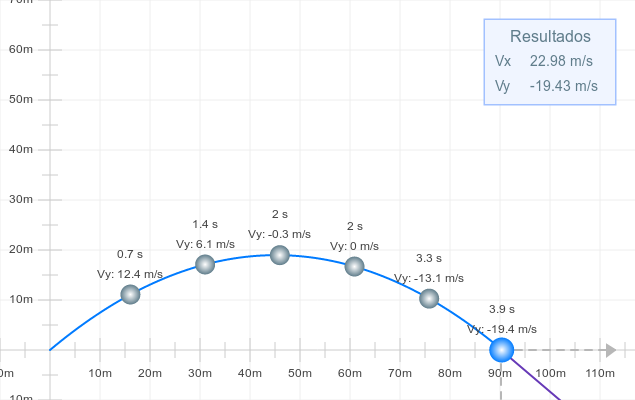
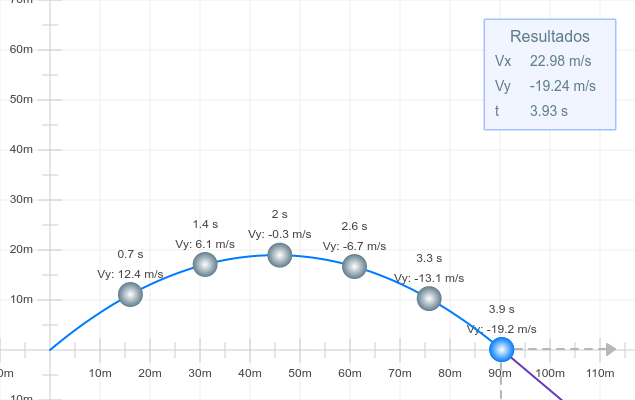
Se agrego la posibilidad de adelantar y retrasar la simulacion. Se cambio todo el draw.

diff --git a/fisica/tiro_parabolico/main.js b/fisica/tiro_parabolico/main.js
@@ -1,14 +1,13 @@
+// Constants
+var TIME_STEP = 0.05;       // Step of time every iteration of the draw function.
+var STEPS = 6;              // Amount of balls.
+
 // Variables
-var t = 0;                // Current time in seconds.
-var t_final = 0;          // Final time to reach y = 0.
-var t_max = 0;            // Time where the ball reaches the highest point.
-var started = false;      // Has the start button been pressed?
-var vx0 = 0;              // Initial x velocity.
-var vy0 = 0;              // Initial y velocity.
-var y0 = 0;               // Initial height.
-var steps = 6;            // Amount of balls.
-var show_balls = false;
-var balls_i = 0;          // Amount of balls being currently displayed.
+var vx0 = 0;                // Initial x velocity.
+var points = [];            // 2d array with the values of the simulation.
+var current = 0;            // Current step of the simulation.
+var started = false;        // Determines if the simulations is running.
+var showRefPoints = false;
 
 // p$ Objeccts
 var w;
@@ -43,12 +42,12 @@ function setup() {
 
   // Add steps amount of balls.
   // Creates an object with obj, time and vy property.
-  for (var i = 0; i < steps; i++) {
-    var b = new p$.Ball(2.5, { color: p$.COLORS.GRAY, display: false, isDraggable: false });
-    b.setZ(2);
+  for (var i = 0; i < STEPS; i++) {
+    var b = new p$.Ball(2.5, { color: p$.COLORS.GRAY, display: true, isDraggable: false });
+    b.setZ(3);
     balls.push({
       obj: b,
-      time: 0,
+      t: 0,
       vy: 0
     });
     w.add(b);
@@ -59,11 +58,14 @@ function setup() {
   labels.vx.setPosition(0, 25);
   labels.vy = box.addLabel(110, 14, { name: "Vy", units: "m/s", labelWidth: 35 });
   labels.vy.setPosition(0, 50);
+  labels.t = box.addLabel(110, 14, { name: "t", units: "s", labelWidth: 35 });
+  labels.t.setPosition(0, 75);
   box.calculateDimensions();
 
   // Configure the z index of all objects.
-  vel.setZ(1);
-  ball.setZ(2);
+  path.setZ(1);
+  vel.setZ(2);
+  ball.setZ(4);
   box.setZ(10);
 
   // Add objects to world.
@@ -75,21 +77,34 @@ function setup() {
  */
 function setupControls() {
   
-  // Configure sliders.
+  // // Configure sliders.
   controls.v0 = new p$.Slider({ id: "v0", start: 30, min: 20, max: 40, decPlaces: 1, units: "m/s", callback: reset, color: p$.COLORS.RED });
   controls.y0 = new p$.Slider({ id: "y0", start: 0, min: 0, max: 30, decPlaces: 0, units: "m", callback: reset, color: p$.COLORS.BLUE });
   controls.angle = new p$.Slider({ id: "angle", start: 40, min: 0, max: 90, decPlaces: 0, units: "°", callback: reset, color: p$.COLORS.GREEN });
   
-  // Start button.
+  // Buttons.
   controls.start = new p$.dom.Button("start", function() {
-    reset();
+    // Reset the simulation only if the simulation has ended.
+    if (current >= points.length - 1) reset();
     started = true;
+  });
+  controls.pause = new p$.dom.Button("pause", function() {
+    started = false;
+  });
+  controls.forward = new p$.dom.Button("forward", function() {
+    started = false;
+    current += 1;
+    if (current >= points.length) current = points.length - 1;
+  });
+  controls.back = new p$.dom.Button("back", function() {
+    started = false;
+    current -= 1;
+    if (current < 0) current = 0;
   });
 
   // Show points option.
-  controls.show_points = new p$.dom.Option("showPoints", function(s) {
-    displayBalls(s);
-    show_balls = s;
+  controls.showRefPoints = new p$.dom.Option("showPoints", function(s) {
+    showRefPoints = s;
   });
 
 }
@@ -99,63 +114,65 @@ function setupControls() {
  * Called when any slider changes values.
  */
 function reset() {
-  // Hide all balls.
-  balls_i = 0;
-  for (var i = 0; i < steps; i++) {
-    balls[i].obj.display = false;
-    balls[i].obj.setPosition(0, 0);
-    balls[i].obj.r = 0;
-  }
 
-  // Reset time and simulation.
-  t = 0;
+  // Restart simulation.
+  current = 0;
   started = false;
 
-  // Reset graph.
-  path.clear();
-  
-  // Reset main ball and vector.
-  vel.setMag(controls.v0.value, controls.angle.value);
-  vel.setPosition(0, controls.y0.value);
-  ball.setPosition(0, controls.y0.value);
-
   // Save initial values.
+  vel.setMag(controls.v0.value, controls.angle.value);
+  var vy0 = vel.y;
+  var y0 = controls.y0.value;
   vx0 = vel.x;
-  vy0 = vel.y;
-  y0 = ball.position.y;
-  
-  // Reset labels.
-  labels.vy.set(vy0);
-  labels.vx.set(vx0);
   
   // Using the quadratic formula get the positive solution to the time
   // the ball takes to reach ground again.
   var t1 = (-vy0 + Math.sqrt(vy0 * vy0 - 4 * (-9.81/2) * y0)) / (-9.81);
   var t2 = (-vy0 - Math.sqrt(vy0 * vy0 - 4 * (-9.81/2) * y0)) / (-9.81);
-  t_final = t1 > 0 ? t1 : t2;
+  var tFinal = t1 > 0 ? t1 : t2;
 
-  // Calculate at which time the ball is at its highest.
-  t_max = vy0 / 9.81;
-}
-
-/**
- * Toggle the visibility of the balls.
- */
-function displayBalls(state) {
-  for (var i = 0; i < steps; i++) {
-    balls[i].obj.display = state;
+  // Simulate the throw and store all points.
+  points = [];
+  for (var t = 0; t <= tFinal; t += TIME_STEP) {
+    points.push([
+      t, 
+      vx0 * t, 
+      y0 + vy0 * t - 0.5 * 9.8 * t * t, 
+      vy0 - 9.8 * t 
+    ]);
   }
+  points.push([
+    tFinal, 
+    vx0 * tFinal, 
+    y0 + vy0 * tFinal - 0.5 * 9.8 * tFinal * tFinal, 
+    vy0 - 9.8 * tFinal 
+  ]);
+
+  // Position the reference balls. They must be equally spaced.
+  var tStep = tFinal / STEPS;
+  var placed = 0;
+  for (var i = 0; i < points.length; i++) {
+    if (points[i][0] >= tStep * (placed + 1)) {
+      balls[placed].obj.display = false;
+      balls[placed].obj.setPosition(points[i][1], points[i][2]);
+      balls[placed].t = points[i][0];
+      balls[placed].vy = points[i][3];
+      placed += 1;
+    }
+    
+  }
+
 }
 
 /**
  * Draw function for Shape Object: ball_labels.
  */
 function drawBallLabels() {
-  for (var i = 0; i < steps; i++) {
+  for (var i = 0; i < balls.length; i++) {
     var b = balls[i];
-    if (b.obj.display && b.obj.position.x !== 0) {
+    if (b.obj.display) {
       ball_labels.text("Vy: " + p$.utils.round(b.vy, 1) + " m/s", b.obj.position.x, b.obj.position.y + 4);
-      ball_labels.text(p$.utils.round(b.time, 1) + " s", b.obj.position.x, b.obj.position.y + 8);
+      ball_labels.text(p$.utils.round(b.t, 1) + " s", b.obj.position.x, b.obj.position.y + 8);
     }
   }
 }
@@ -164,32 +181,48 @@ function drawBallLabels() {
  * Function gets called 60x per second.
  */
 function draw() {
+
+  // Get the current time, position, and velocity values.
+  var t = points[current][0];
+  var x = points[current][1], y = points[current][2];
+  var vy = points[current][3];
+
+  // Draw plot til the current point.
+  path.clear();
+  for (var i = 0; i < current; i++) {
+    path.addPoint(points[i][1], points[i][2]);
+  }
+
+  // Draw reference balls til the current point.
+  for (var i = 0; i < balls.length; i++) {
+    balls[i].obj.display = t >= balls[i].t && showRefPoints;
+  }
+
+  // Update the position of the ball and velocity vector.
+  ball.setPosition(x, y);
+  vel.setPosition(x, y);
+  vel.set(vx0, vy);
+
+  // Update labels.
+  labels.vx.set(vx0)
+  labels.vy.set(vy);
+  labels.t.set(t);
+  
+  // Increase current frame only if the simulation has not started.
   if (started) {
-    var vy = vy0 - 9.8 * t;
-    var x = vx0 * t;
-    var y = y0 + vy0 * t - 0.5 * 9.8 * t * t;
-    vel.set(vx0, vy);
-    ball.setPosition(x, y);
-    vel.setPosition(ball.position.x, ball.position.y);
-    labels.vy.set(vy);
-    if (t > (balls_i + 1) * t_final / steps && balls_i < steps && ball.position.x !== 0) {
-      balls[balls_i].time = balls_i === 3 ? t_max : t;
-      balls[balls_i].vy = balls_i === 3 ? 0 : vy;
-      balls[balls_i].obj.display = show_balls;
-      balls[balls_i].obj.r = 2;
-      balls[balls_i].obj.setPosition(ball.position.x, ball.position.y);
-      balls_i++;
-    }
-    if (t < t_final) {
-      t += 0.05;
+    if (current < points.length - 1) {
+      current += 1;
     } else {
       started = false;
-      ball.setPosition(vx0 * t_final, y0 + vy0 * t_final - 0.5 * 9.81 * t_final * t_final);
-      vel.setPosition(ball.position.x, ball.position.y);
-      balls[balls.length - 1].obj.setPosition(ball.position.x, ball.position.y);
     }
-    path.addPoint(ball.position.x, ball.position.y);
   }
+
+  // Update the control buttons, depending on the current frame.
+  controls.back.enabled(current > 0);
+  controls.forward.enabled(current < points.length - 1);
+  controls.start.enabled(!started);
+  controls.pause.enabled(started);
+
 }
 
 /**

diff --git a/fisica/tiro_parabolico/index.php b/fisica/tiro_parabolico/index.php
@@ -84,10 +84,28 @@
                             </div>
                         </div> <!-- end .row- -->
                         <div class="row button-row">
-                            <div class="col">
+                            <div class="col-3">
+                                <button type="button" id="back" class="btn btn-sm btn-outline-secondary btn-block">
+                                    <i data-feather="skip-back"></i>
+                                    <!-- <span>Atras</span> -->
+                                </button>
+                            </div>
+                            <div class="col-3">
                                 <button type="button" id="start" class="btn btn-sm btn-success btn-block">
                                     <i data-feather="play"></i>
-                                    <span>Simular</span>
+                                    <!-- <span>Simular</span> -->
+                                </button>
+                            </div>
+                            <div class="col-3">
+                                <button type="button" id="pause" class="btn btn-sm btn-primary btn-block">
+                                    <i data-feather="pause"></i>
+                                    <!-- <span>Pausa</span> -->
+                                </button>
+                            </div>
+                            <div class="col-3">
+                                <button type="button" id="forward" class="btn btn-sm btn-outline-secondary btn-block">
+                                    <i data-feather="skip-forward"></i>
+                                    <!-- <span>Adelante</span> -->
                                 </button>
                             </div>
                         </div> <!-- end .row- -->

diff --git a/php/data.php b/php/data.php
@@ -120,8 +120,8 @@
             "name"  => "Tiro Parabólico",
             "desc"  => "Simula el movimiento de un proyectil.",
             "url"   => "$base/fisica/tiro_parabolico/",
-            "ver"   => "2.0.0",
-            "date"  => "22/01/2019"
+            "ver"   => "2.1.0",
+            "date"  => "17/01/2020"
         )
     );
 
